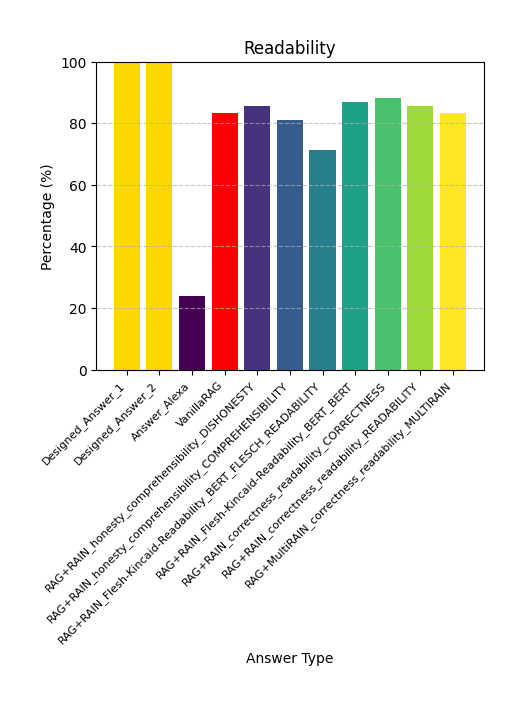
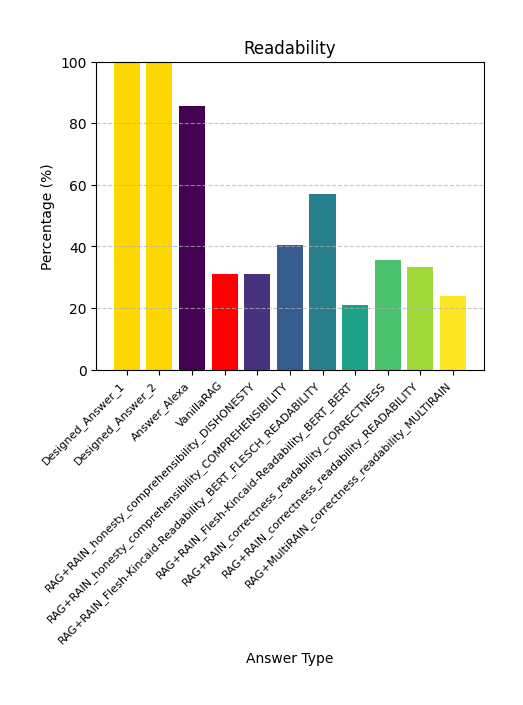
Fixed bug in percentage_as_good_as_human.py. The bug was that the threshold policy for Readability was set as requiring values to be smaller than the maximum of human expert answers (Designed_Answer_1 or Designed_Answer_2). This was not correct, instead this threshold policy should be applied to Rea

Changed region(s): [[0.3365, 0.1248, 0.9178, 0.4369]]

diff --git a/percentage_comparison/percentage_as_good_as_human.py b/percentage_comparison/percentage_as_good_as_human.py
@@ -21,23 +21,16 @@ def calculate_percentage_comparisons(dataset):
         'RAG+RAIN_correctness_readability_CORRECTNESS',
         'RAG+RAIN_correctness_readability_READABILITY',
         'RAG+MultiRAIN_correctness_readability_MULTIRAIN'
-        ]
+    ]
 
     # Initialize an empty dictionary to hold the DataFrames for each answer type
     data_dict = {}
 
     # Loop through each answer type and collect relevant columns
     for answer_type in all_answer_types:
-        # Select columns that start with the answer_type or are named 'Question'
         relevant_columns = [col for col in columns if col.startswith(answer_type) or col == 'Question']
-
-        # Create a DataFrame with these relevant columns
         df = data[relevant_columns].copy()
-
-        # Rename metric columns by removing the answer_type prefix
         df.columns = [col.replace(f"{answer_type}_", "") if col.startswith(answer_type) else col for col in df.columns]
-
-        # Store the modified DataFrame in data_dict
         data_dict[answer_type] = df
 
     metrics = [col for col in data_dict.get('Designed_Answer_1').columns if col != 'Question' and col != 'Designed_Answer_1']
@@ -49,18 +42,22 @@ def calculate_percentage_comparisons(dataset):
     # Iterate through the metrics and compute the appropriate threshold value
     for metric in metrics:
         if metric in data_dict.get('Designed_Answer_1').columns and metric in data_dict.get('Designed_Answer_2').columns:
-            if metric == 'Readability':
-                thresholds[metric] = data_dict.get('Designed_Answer_1')[metric].combine(data_dict.get('Designed_Answer_2')[metric], max)  # Use max for readability_grade
+            if metric == 'ReadabilityGrade':
+                thresholds[metric] = data_dict.get('Designed_Answer_1')[metric].combine(data_dict.get('Designed_Answer_2')[metric], max)
+            elif metric in ['SentenceLength', 'LexicalDiversity']:
+                # Calculate the actual min and max values for each question
+                thresholds[metric] = list(zip(
+                data_dict.get('Designed_Answer_1')[metric].combine(data_dict.get('Designed_Answer_2')[metric], min),
+                data_dict.get('Designed_Answer_1')[metric].combine(data_dict.get('Designed_Answer_2')[metric], max)
+                ))
             else:
-                thresholds[metric] = data_dict.get('Designed_Answer_1')[metric].combine(data_dict.get('Designed_Answer_2')[metric], min)  # Use min for all other metrics
+                thresholds[metric] = data_dict.get('Designed_Answer_1')[metric].combine(data_dict.get('Designed_Answer_2')[metric], min)
 
-    numeric_columns = thresholds.drop(columns=['Question'])
-
+    # Initialize counts dictionary
     counts_dict = {answer_type: pd.DataFrame() for answer_type in all_answer_types}
 
     # Iterate over each answer type to calculate counts
     for answer_type in all_answer_types:
-        # Initialize counts DataFrame for the current answer type
         counts = pd.DataFrame()
         counts['Question'] = thresholds['Question']
 
@@ -77,15 +74,15 @@ def calculate_percentage_comparisons(dataset):
                     if not df_subset.empty:
                         metric_values = df_subset[metric].values
                         if len(metric_values) > 0:
-                            # Handle cases where NaN values might be present
                             if pd.isna(threshold_value) or pd.isna(metric_values).any():
                                 counts.at[index, metric] = np.nan
                             else:
-                                if metric == 'Readability':
-                                    # For readability_grade, count instances no larger than the threshold
+                                if metric == 'ReadabilityGrade':
                                     counts.at[index, metric] = int(np.all(metric_values <= threshold_value))
+                                elif metric in ['SentenceLength', 'LexicalDiversity']:
+                                    min_val, max_val = threshold_value  # Unpack the interval
+                                    counts.at[index, metric] = int(np.all((metric_values >= min_val) & (metric_values <= max_val)))
                                 else:
-                                    # For all other metrics, count instances at least as high as the threshold
                                     counts.at[index, metric] = int(np.all(metric_values >= threshold_value))
                         else:
                             counts.at[index, metric] = np.nan
@@ -94,7 +91,6 @@ def calculate_percentage_comparisons(dataset):
                 else:
                     counts.at[index, metric] = np.nan
 
-        # Store the counts DataFrame for the current answer type in the dictionary
         counts_dict[answer_type] = counts
 
     # Initialize an empty DataFrame to store percentages
@@ -102,21 +98,16 @@ def calculate_percentage_comparisons(dataset):
 
     # Iterate over each answer type and metric to compute percentages
     for answer_type in all_answer_types:
-        counts_df = counts_dict[answer_type]  # Retrieve the counts DataFrame for the current answer type
+        counts_df = counts_dict[answer_type]
 
         for metric in metrics:
             if metric in counts_df.columns:
-                # Count the number of 1s and the number of non-NaN values
                 num_ones = counts_df[metric].eq(1).sum()
                 num_non_nan = counts_df[metric].notna().sum()
-
-                # Compute the percentage
                 if num_non_nan > 0:
                     percentage = (num_ones / num_non_nan) * 100
                 else:
-                    percentage = np.nan  # If there are no non-NaN values, set the percentage to NaN
-
-                # Save the percentage in the DataFrame
+                    percentage = np.nan
                 percentage_df.at[answer_type, metric] = percentage
 
     # Return the percentage DataFrame for use in another script

diff --git a/general_statistical_llm_based_metrics/statistical_metrics.py b/general_statistical_llm_based_metrics/statistical_metrics.py
@@ -84,7 +84,7 @@ for column in tqdm(columns_to_evaluate, desc="Calculating metrics for each colum
     result_columns[f'{column}_BLEU'] = df.apply(lambda x: calculate_bleu(x['Excerpts'], x[column]) if pd.notna(x['Excerpts']) and pd.notna(x[column]) else np.nan, axis=1)
     result_columns[f'{column}_ROUGE'] = df.apply(lambda x: calculate_rouge(x['Excerpts'], x[column]) if pd.notna(x['Excerpts']) and pd.notna(x[column]) else np.nan, axis=1)
     result_columns[f'{column}_Readability'] = df[column].apply(lambda x: calculate_readability(x) if pd.notna(x) else np.nan)
-    result_columns[f'{column}_TextStat'] = df[column].apply(lambda x: calculate_textstat(x) if pd.notna(x) else np.nan)
+    result_columns[f'{column}_ReadabilityGrade'] = df[column].apply(lambda x: calculate_textstat(x) if pd.notna(x) else np.nan)
     result_columns[f'{column}_LexicalDiversity'] = df[column].apply(lambda x: calculate_lexical_diversity(x) if pd.notna(x) else np.nan)
     result_columns[f'{column}_SentenceLength'] = df[column].apply(lambda x: calculate_sentence_length(x) if pd.notna(x) else np.nan)
     result_columns[f'{column}_BERTScore'] = df.apply(lambda x: calculate_bert_score(x['Excerpts'], x[column]) if pd.notna(x['Excerpts']) and pd.notna(x[column]) else np.nan, axis=1)

diff --git a/percentage_comparison/visualize_percentages.py b/percentage_comparison/visualize_percentages.py
@@ -3,7 +3,7 @@ import numpy as np
 import pandas as pd
 import os
 from matplotlib import colors as mcolors
-from percentage_as_good_as_human import calculate_percentage_comparisons
+from percentage_as_good_as_human_bp import calculate_percentage_comparisons
 
 # Get the directory path from the user
 dat_dir = input("Enter the path to the data directory: ").strip()
